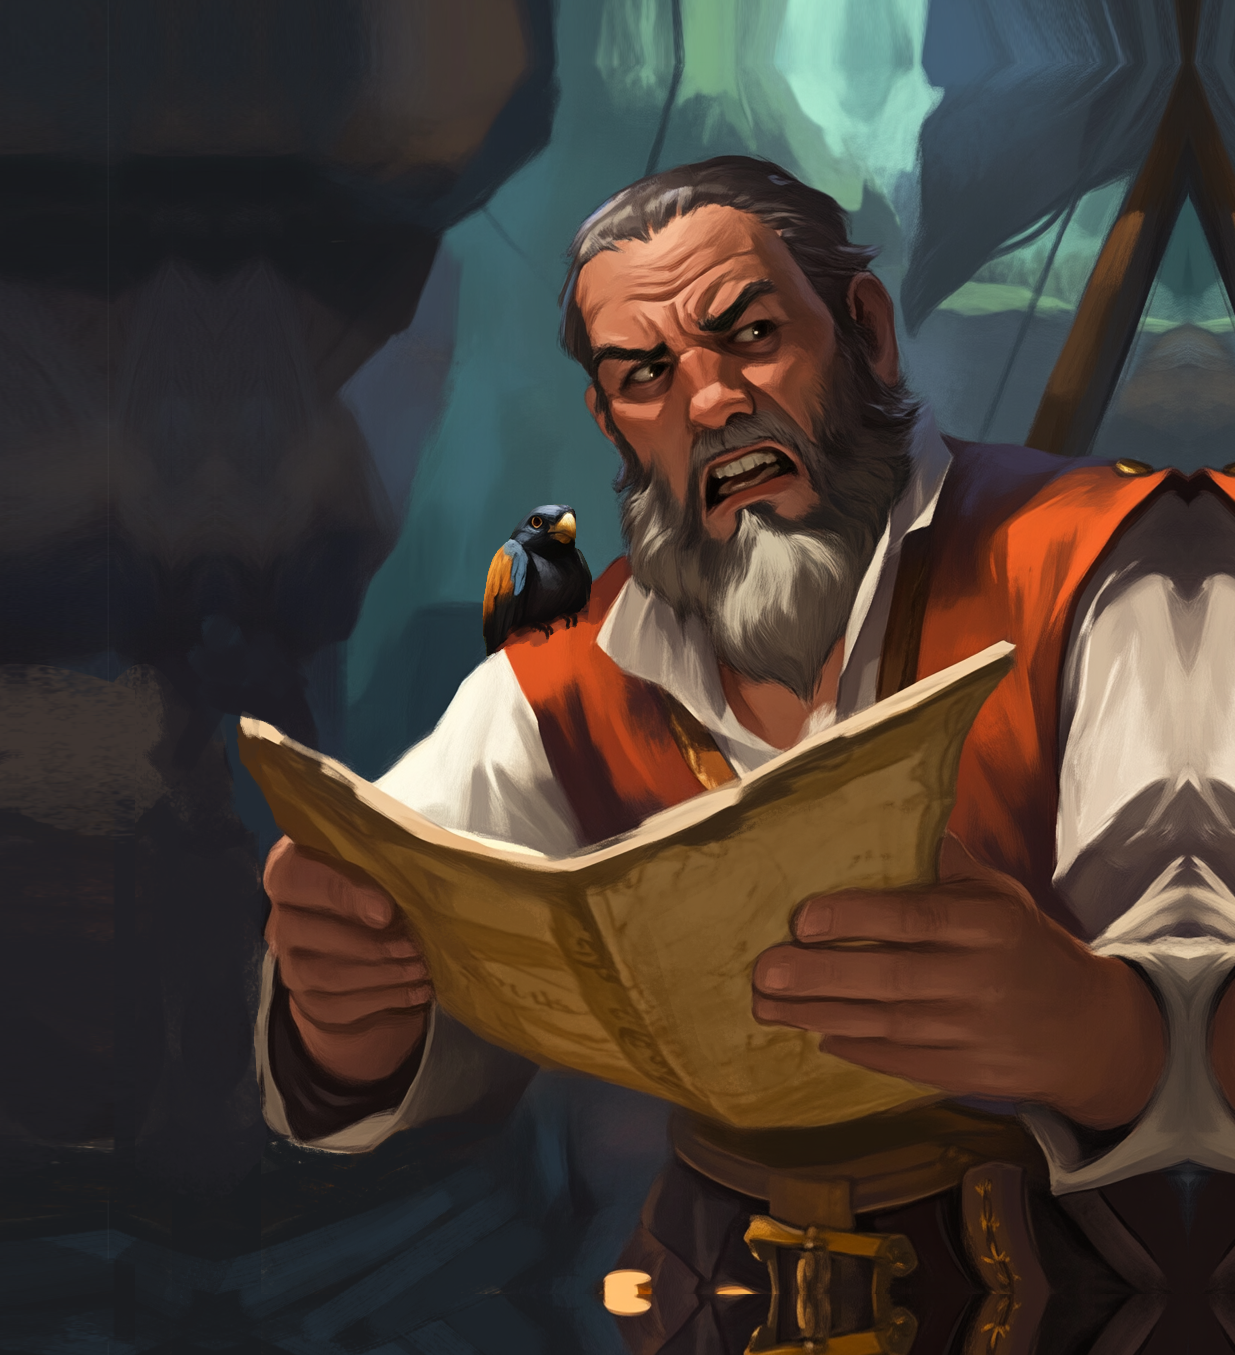
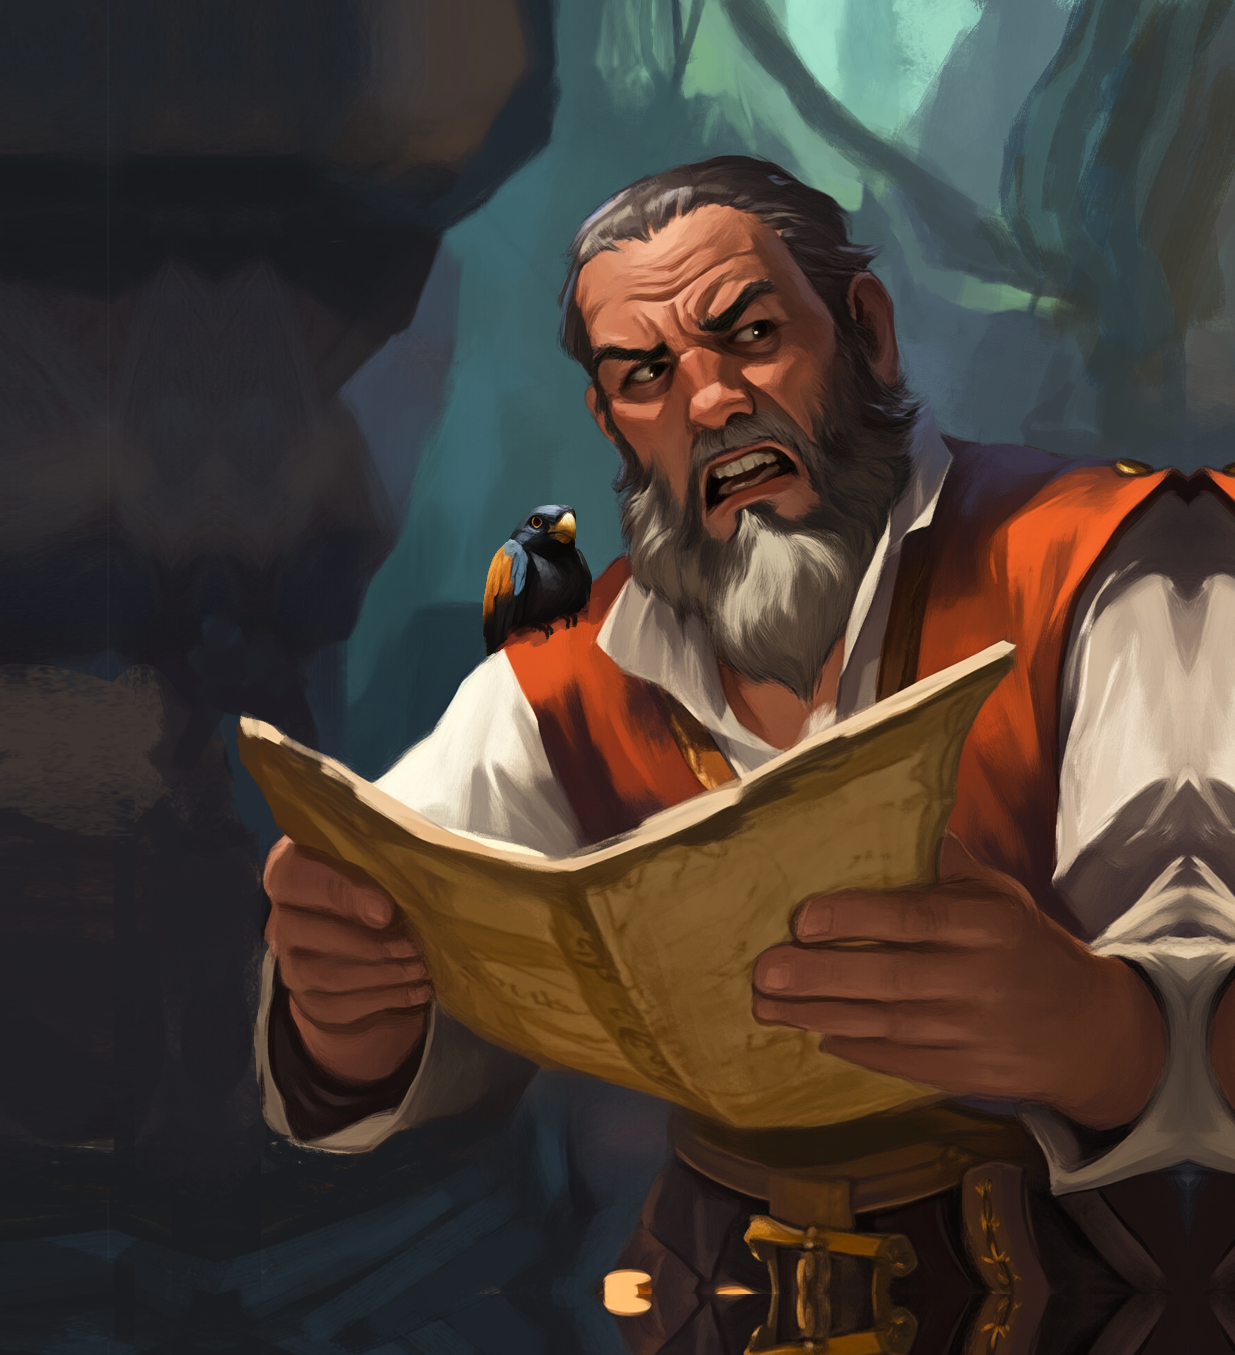
Watch

Changed region(s): [[0.4923, 0.0, 1.0, 0.341]]

diff --git a/deckhand2/cards.en.js b/deckhand2/cards.en.js
@@ -474,6 +474,7 @@ var cards = [
         "banners": ['helm-banner'],
         "production": ['h'],
         "changed": false,
+        "css": "bg-top",
     },
 
     {
@@ -524,7 +525,7 @@ var cards = [
         "discard": ['p'],
         "title": "Captain Lhoryn",
         "cost": ['h', 'h', 'c'],
-        "img": "cards/captain1.png",
+        "img": "cards/watch.png",
         "banners": ['gem-banner'],
         "extra": ['vp-4', 'telescope'],
         "changed": false,
